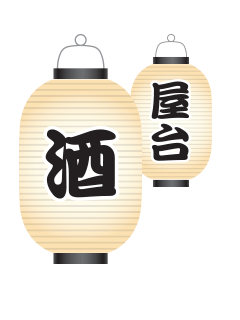
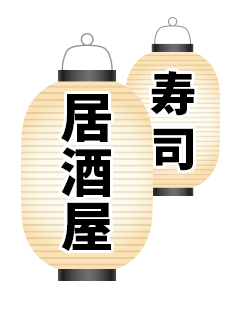
push all lanterns

Changed region(s): [[0.0583, 0.0312, 0.9333, 0.875]]

diff --git a/index.html b/index.html
@@ -54,28 +54,39 @@
       </div>
     </section>
     <section class="introduction">
-      <div class="container">
+      <div class="container drop">
         <div class="row justify-center">
-          <div class="col-6 col-xs">
+          <div class="col-6 col-xs col-padding">
             <h1>ORAMEN: Japanese Izakaya Ramen & Sushi</h1>
             <p>Nestled in the heart of Chelsea, Oramen offers an inclusive variety of Japanese staples, catering to all food preferences. From hearty, soul warming ramen to fresh sushi, Oramen provides a welcoming atmosphere that allows diners to feel at home, along with a taste of Japan.</p>
             <p>What truly separates Oramen from the rest is our deep rooted philosophy that our customers deserve only the best ingredients,  dishes and experiences. Our customers become family and everyday, we strive to provide consistently reliable dishes and service that keep our customers coming back.</p>
           </div>
         </div>
       </div>
-        <div class="container">
-          <div class="row justify-center parallax">
-            <div class="col-8 col-xs">
+        <div class="container parallax" role="presentation">
+          <div class="row justify-center">
+            <div class="col-8 col-xs offset-col-6">
               <img class="rellax" data-rellax-speed="3" data-rellax-zindex="" alt="" src="img/lantern-01.png">
             </div>
-            <div class="col-3 col-xs">
-              <img class="rellax" data-rellax-speed="0.1" data-rellax-zindex="" alt="" src="img/lantern-02.png">
+            <div class="col-3 col-xs offset-col-3">
+              <img class="rellax" data-rellax-speed="1.5" data-rellax-zindex="" alt="" src="img/lantern-02.png">
+            </div>
+          </div>
+          <div class="row justify-center">
+            <div class="col-4 col-xs offset-col-6">
+              <img class="rellax" data-rellax-speed="2" data-rellax-zindex="" alt="" src="img/lantern-03.png">
+            </div>
+            <div class="col-3 col-xs offset-col-3">
+              <img class="rellax" data-rellax-speed="0.5" data-rellax-zindex="" alt="" src="img/lantern-04.png">
+            </div>
+            <div class="col-3 col-xs offset-col-6">
+              <img class="rellax" data-rellax-speed="1.5" data-rellax-zindex="" alt="" src="img/lantern-05.png">
             </div>
           </div>
         </div>
     </section>
     <section class="showcase">
-      <div class="container">
+      <div class="container drop">
         <div class="row justify-center">
           <div class="col-8 col-xs">
             <div class="row">

diff --git a/css/style.css b/css/style.css
@@ -1,8 +1,9 @@
 .container { width: 100%; }
 .row { padding: 5%; display: flex; flex-wrap: wrap; }
 .justify-center { justify-content: center; }
-.parallax { height: 0; }
+.parallax { height: 0; padding: 0;}
 
+.col-1 { width: 8.33333333%; }
 .col-2 { width: 16.66666667%; }
 .col-3 { width: 25%; }
 .col-4 { width: 33.33333333%; }
@@ -10,9 +11,11 @@
 .col-8 { width: 66.66666667%; }
 .col-12 { width: 100%; }
 
-.offset-col-2 { margin-left: 16.66666667%; }
+.col-padding { padding: 0 2.5%; background: rgba(0,0,0,0.8); }
+
+/*.offset-col-2 { margin-left: 16.66666667%; }
 .offset-col-3 { margin-left: 25%; }
-.offset-col-4 { margin-left: 33.33333333%; }
+.offset-col-4 { margin-left: 33.33333333%; }*/
 
 .banner { 
 	height: calc(100vh);
@@ -27,9 +30,10 @@
 .logo {  }
 .image-showcase { width: 95%; padding: 2.5%;}
 .introduction .row { padding-bottom: 0; }
+.drop { position:relative; z-index: 10; }
 
 body { background: #281f3a; }
-main { background-image: url(../img/oramen-section-pattern.png); }
+main { background-image: url(../img/oramen-section-pattern.png); overflow-x: hidden; }
 footer { background: #020403; text-align: center; padding: 2.5% 2.5% 5% 2.5%; }
 footer ul { list-style-type: none; padding: 0; margin: 0;}
 footer ul li { display: inline-block; margin: 0 1%; color: #fff; }
@@ -54,7 +58,9 @@ aside {  }
 
 @media screen and (max-width: 767px){
 	.col-xs { width: 100%; }
-	.offset-col-2, .offset-col-3, .offset-col-4 { margin-left: -33.33333333%; }
+	.col-padding { padding: 5%; }
+	.offset-col-6 { margin-left: -50%; }
+	.offset-col-3 { margin-left: 46%; }
 	.button { padding: 4% 0; }
 	footer { padding: 10% 0 15% 0; }
 	footer ul li { display: block; margin: 2.5%; }
